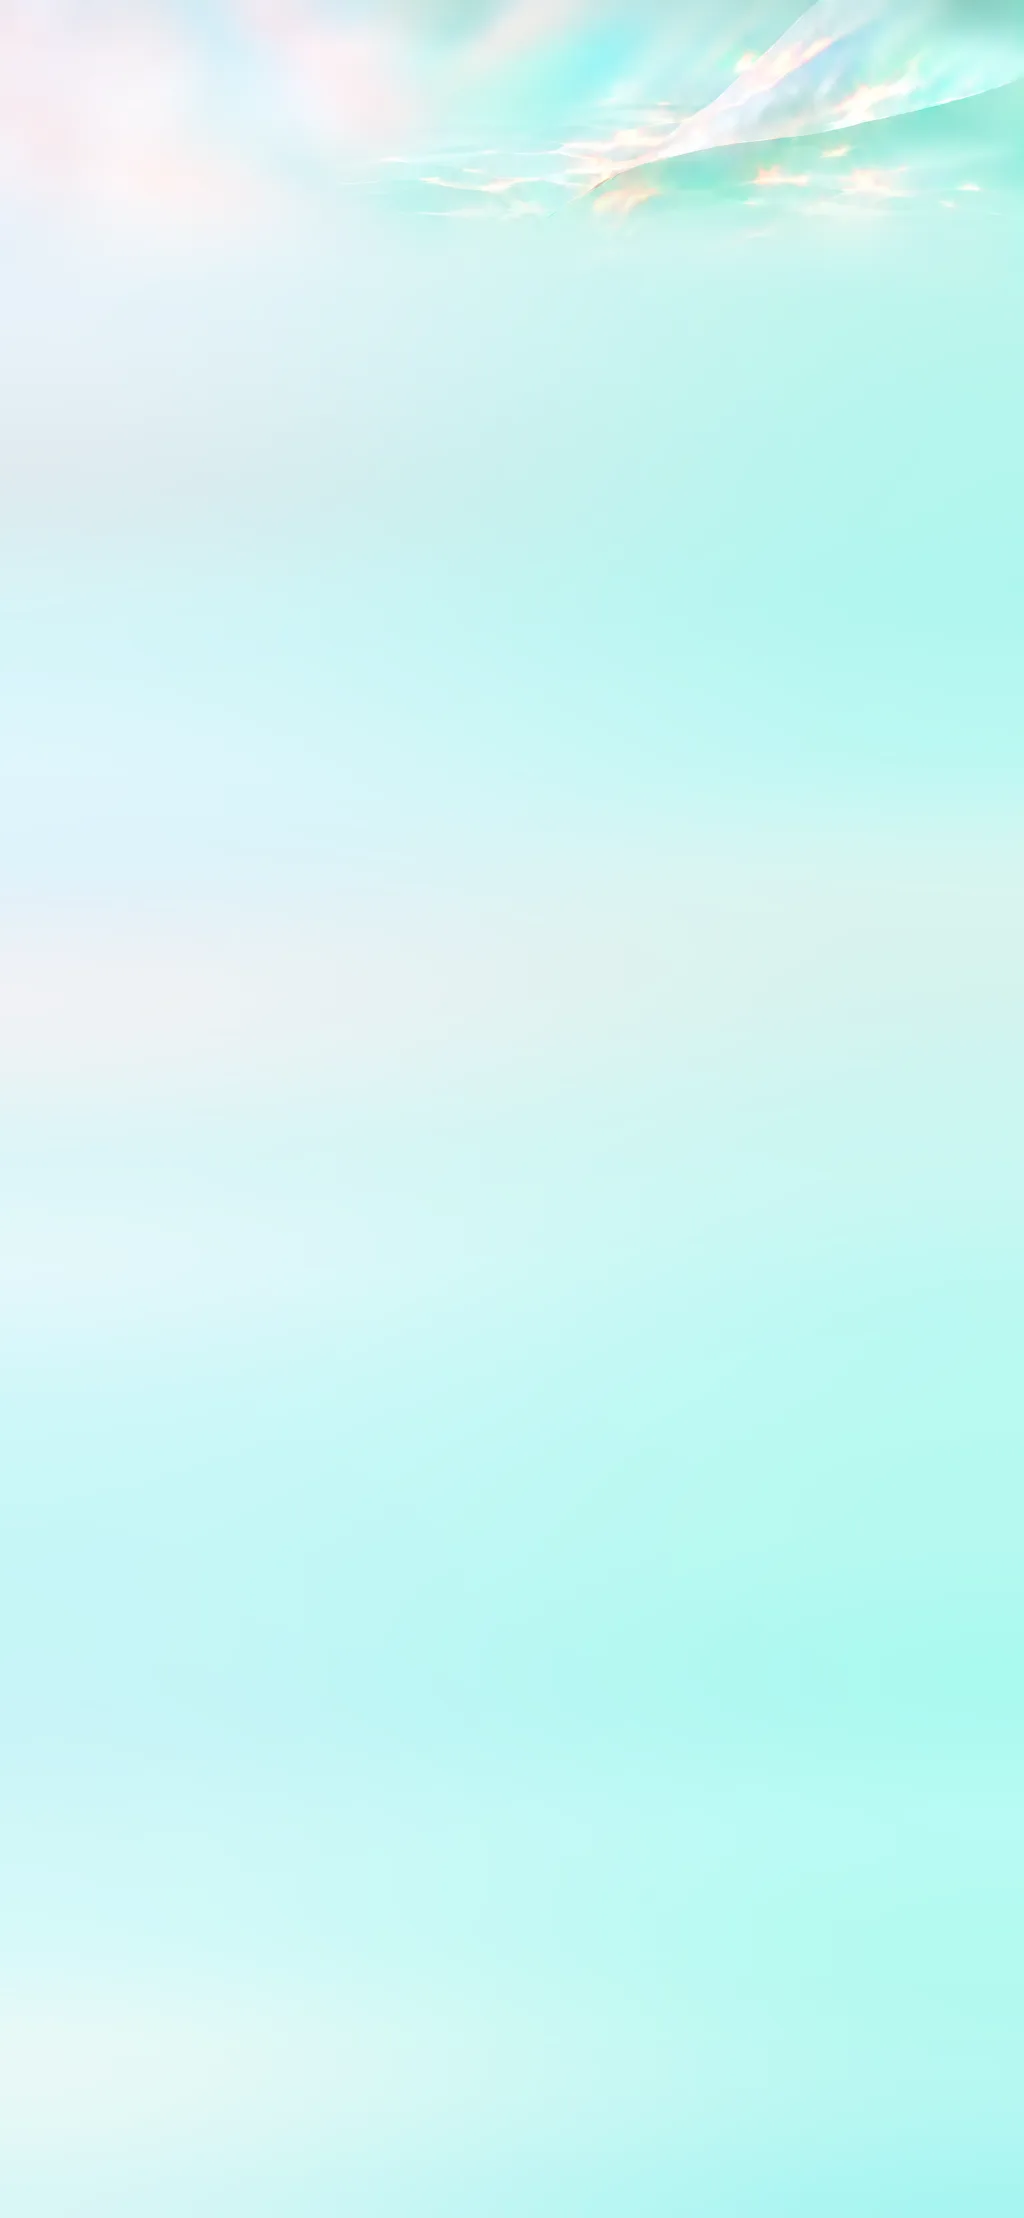
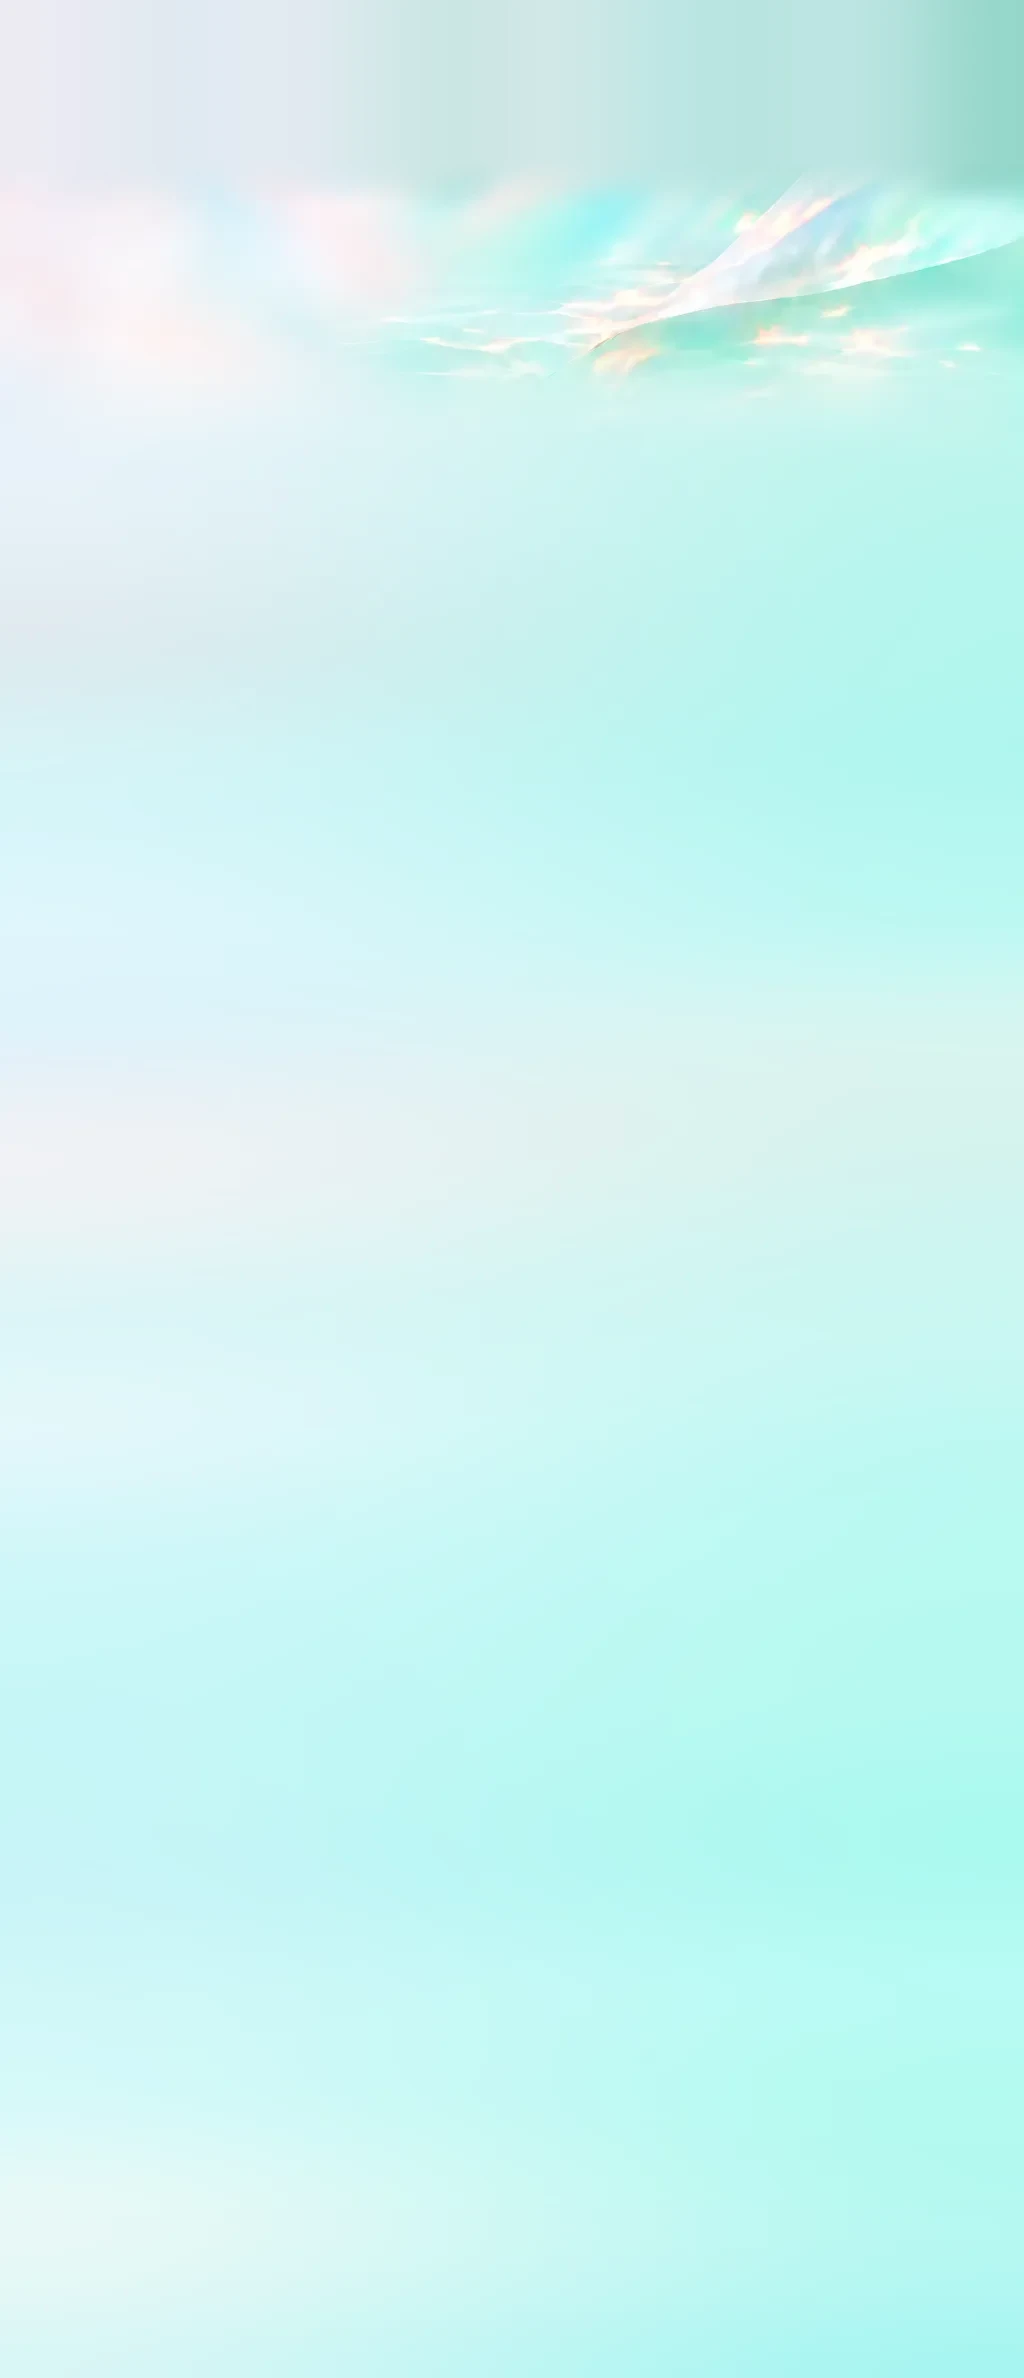
하루: 녹색 배경도 상태바 높이만큼 내려 오로라가 보이게
Claude-Session: https://claude.ai/code/session_01YMNPZCviXGYp42DjssSfVm

diff --git a/haru/styles.css b/haru/styles.css
@@ -593,3 +593,6 @@ html.haru-sa .app{height:100%}
 [data-theme="moon"] .nav{background:rgba(255,255,255,.62)}
 /* 아래 메뉴를 화면 끝 쪽으로 더 내림(홈 막대와 겹치지 않을 만큼만) */
 html.haru-sa .app{padding-bottom:max(8px,calc(env(safe-area-inset-bottom) - 12px))}
+/* 녹색도 같은 방법: 위에 하늘 160px 덧대고 상태바 높이만큼 내려 오로라가 보이게 */
+[data-theme="green"] .bg{background-position:center calc(env(safe-area-inset-top, 0px) - 15.625vw),0 0}
+@media (min-width:700px){[data-theme="green"] .bg{background-position:center top,0 0}}

diff --git a/haru/index.html b/haru/index.html
@@ -11,7 +11,7 @@
 <meta name="apple-mobile-web-app-title" content="하루">
 <link rel="apple-touch-icon" href="apple-touch-icon.png?v=3">
 <script>try{var t=localStorage.getItem('haru-look');if(t==='green'||t==='moon')document.documentElement.dataset.theme=t;}catch(_){}if(navigator.standalone||matchMedia('(display-mode: standalone)').matches)document.documentElement.classList.add('haru-sa');</script>
-<link rel="stylesheet" href="styles.css?v=38">
+<link rel="stylesheet" href="styles.css?v=39">
 </head>
 <body>
 <div class="bg" aria-hidden="true"></div>
